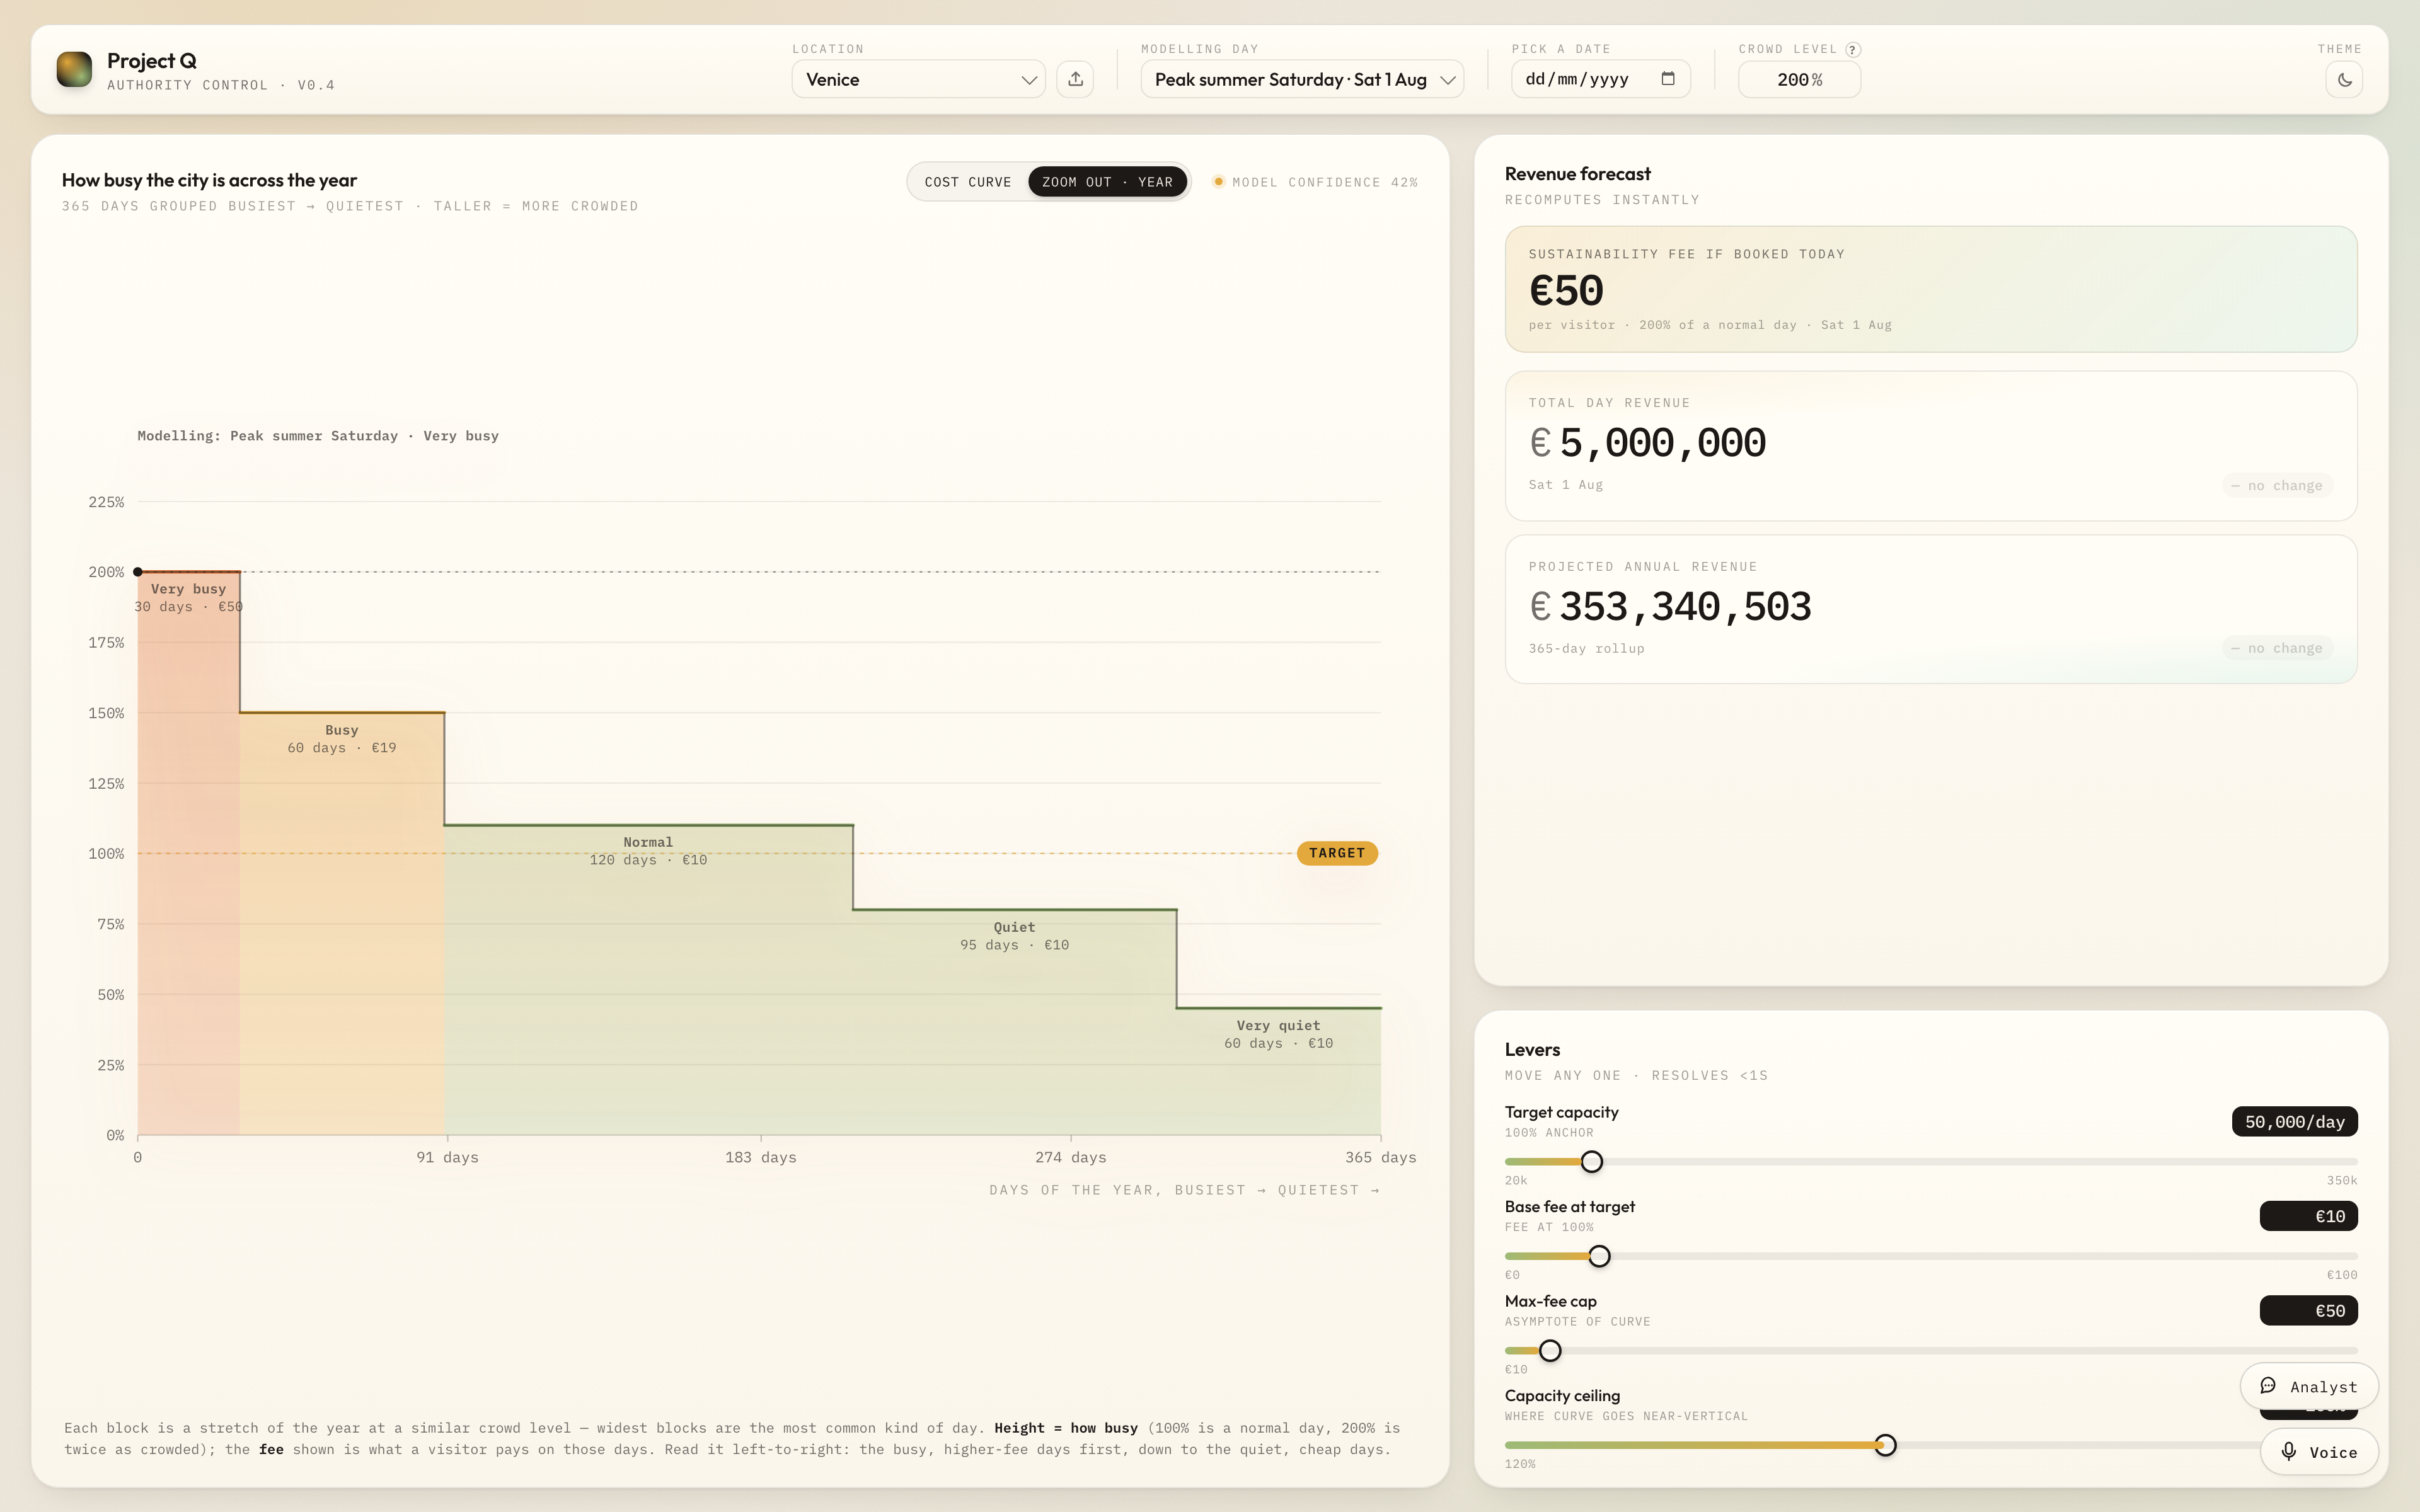
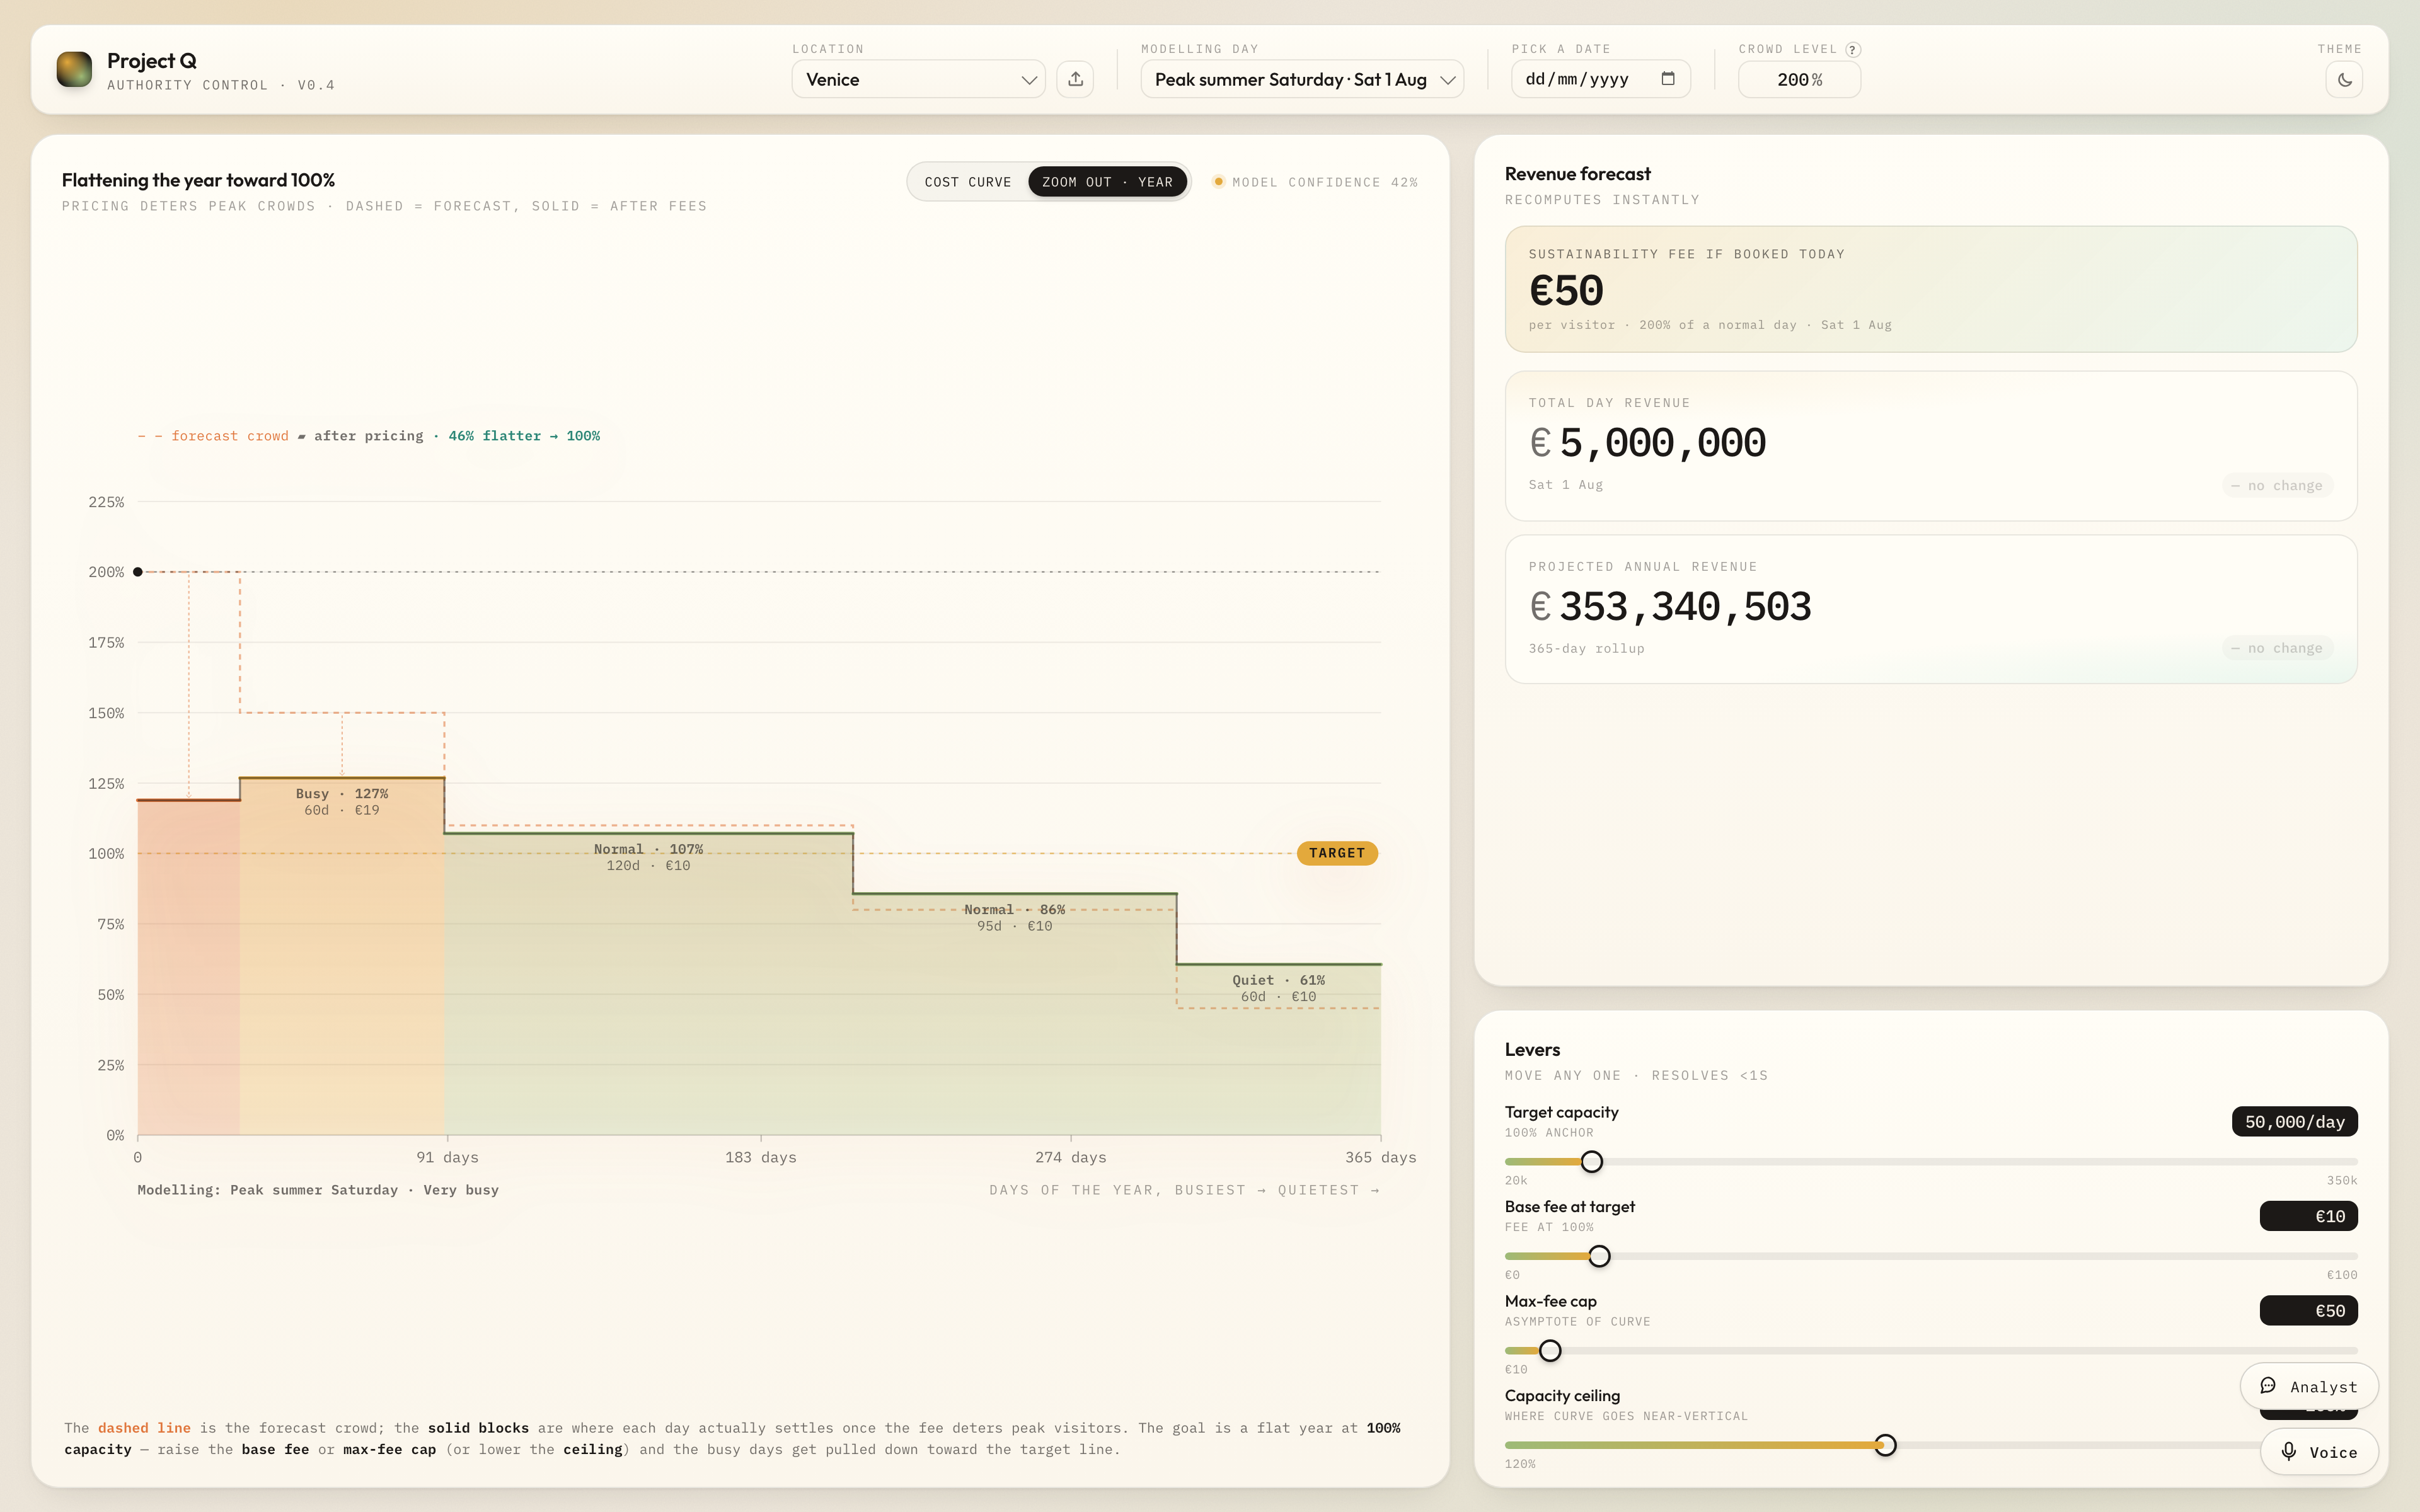
Zoom-out: demand-response curve — pricing levers flatten the year toward 100%
The annual view was a static load-duration curve the levers didn't touch. It now
models the WHOLE POINT of dynamic pricing: higher fees deter peak crowds and pull
the year toward 100% capacity.

- New deterministic managedDemandPct() in state.ts: managed = 100 + (raw-100) *
  e^(-fee/DEMAND_REF_EUR). The fee (set from the day's forecast demand) compresses
  that day's deviation from 100% — peak days carry the top fee so they compress
  most; quiet days near the base fee barely move. Exposed on window.ProjectQ.
- YearCurve now draws the RAW forecast as a faint dashed line and the MANAGED
  outcome as the solid bands, with drop-arrows and a '% flatter → 100%' badge;
  retitled 'Flattening the year toward 100%' with a demand-response explainer.
- Raising base_fee / max_fee_cap or lowering ceiling_pct all flatten the curve
  toward target. Verified monotonic: spread-from-100 18.5→8.2→4.9→4.2, peak day
  119%→100%.
- Band labels rebuilt to a width/room-aware single label so they never overlap
  even when flattened bands cluster near 100%; modelled-day caption moved to the
  bottom-left. Collision-swept across 8 lever combos at 1280 & 1920: 0 overlaps.

diff --git a/src/control/CurvePanel.tsx b/src/control/CurvePanel.tsx
@@ -1,5 +1,5 @@
 import { useStore } from "./useStore";
-import { feeAtPct, payAtPct, activeDayType, setView, type State } from "./state";
+import { feeAtPct, payAtPct, activeDayType, managedDemandPct, setView, type State } from "./state";
 import { fmtEur } from "./format";
 
 function leverV(state: State, id: string): number {
@@ -428,27 +428,33 @@ function YearCurve() {
   const yS = (v: number) => padT + (1 - v / yMax) * innerH;
   const baseY = yS(0);
 
-  // Load-duration style: sort the DPM seasonal bins by demand (desc) and lay
-  // them across the 365-day axis — a single glance shows how many days a year
-  // sit at each demand level, coloured by the fee that level would charge.
+  // Load-duration style: sort the DPM seasonal bins by RAW (forecast) demand and
+  // lay them across the 365-day axis. The pricing curve then deters peak crowds —
+  // managedDemandPct() is where each day actually settles after fees, pulling the
+  // whole year toward the 100% target. We draw both so the levers' effect shows.
   const bins = [...state.seasonal].sort((a, b) => b.demand_pct - a.demand_pct);
   type Band = {
     x0: number;
     x1: number;
-    y: number;
+    yRaw: number;
+    yMan: number;
     color: string;
-    demand: number;
+    rawDemand: number;
+    managed: number;
     days: number;
     fee: number;
   };
   const bands: Band[] = [];
-  const stepPts: string[] = [];
+  const rawPts: string[] = [];
+  const manPts: string[] = [];
   let cum = 0;
   for (const b of bins) {
     const x0 = xS(cum);
     const x1 = xS(cum + b.days);
-    const y = yS(Math.min(yMax, b.demand_pct));
     const fee = feeAtPct(b.demand_pct, state);
+    const managed = managedDemandPct(b.demand_pct, state);
+    const yRaw = yS(Math.min(yMax, b.demand_pct));
+    const yMan = yS(Math.min(yMax, managed));
     const ratio = cap > 0 ? fee / cap : 0;
     const color =
       fee < 0
@@ -458,14 +464,23 @@ function YearCurve() {
           : ratio > 0.3
             ? "var(--ochre)"
             : "var(--sage)";
-    bands.push({ x0, x1, y, color, demand: b.demand_pct, days: b.days, fee });
-    stepPts.push(`${x0.toFixed(1)},${y.toFixed(1)}`, `${x1.toFixed(1)},${y.toFixed(1)}`);
+    bands.push({ x0, x1, yRaw, yMan, color, rawDemand: b.demand_pct, managed, days: b.days, fee });
+    rawPts.push(`${x0.toFixed(1)},${yRaw.toFixed(1)}`, `${x1.toFixed(1)},${yRaw.toFixed(1)}`);
+    manPts.push(`${x0.toFixed(1)},${yMan.toFixed(1)}`, `${x1.toFixed(1)},${yMan.toFixed(1)}`);
     cum += b.days;
   }
-  const stepPath = stepPts.map((p, i) => (i ? "L" : "M") + p).join(" ");
+  const rawPath = rawPts.map((p, i) => (i ? "L" : "M") + p).join(" ");
+  const stepPath = manPts.map((p, i) => (i ? "L" : "M") + p).join(" ");
+  // Filled area under the MANAGED curve (the outcome the operator controls).
   const areaPath =
     stepPath +
     ` L ${xS(totalDays).toFixed(1)},${baseY.toFixed(1)} L ${xS(0).toFixed(1)},${baseY.toFixed(1)} Z`;
+  // How flat did we get? Mean absolute deviation from 100%, raw vs managed.
+  const totalD = bins.reduce((a, b) => a + b.days, 0) || 1;
+  const rawSpread = bins.reduce((a, b) => a + b.days * Math.abs(b.demand_pct - 100), 0) / totalD;
+  const manSpread =
+    bins.reduce((a, b) => a + b.days * Math.abs(managedDemandPct(b.demand_pct, state) - 100), 0) / totalD;
+  const flattenPct = rawSpread > 0.5 ? Math.round((1 - manSpread / rawSpread) * 100) : 0;
 
   // Y gridlines.
   const yStep = yMax > 250 ? 50 : 25;
@@ -487,7 +502,22 @@ function YearCurve() {
             <stop offset="0%" stopColor="#E0763C" stopOpacity="0.18" />
             <stop offset="100%" stopColor="#E3A93C" stopOpacity="0" />
           </linearGradient>
+          <marker id="year-arrow" viewBox="0 0 8 8" refX="4" refY="4" markerWidth="5" markerHeight="5" orient="auto">
+            <path d="M1 1 L4 4 L1 7" fill="none" stroke="#E0763C" strokeWidth="1.2" opacity="0.7" />
+          </marker>
         </defs>
+
+        {/* Raw-vs-managed legend + how-flat badge (top-left, fixed slot). */}
+        <g>
+          <text x={padL} y={padT - 14} textAnchor="start" className="year-band-label" style={{ fill: "var(--ink-mute)" }}>
+            <tspan style={{ fill: "var(--penalty)" }}>– – forecast crowd</tspan>
+            {"   "}
+            <tspan style={{ fontWeight: 600 }}>▰ after pricing</tspan>
+            {flattenPct > 1 && (
+              <tspan style={{ fill: "#2c8676", fontWeight: 600 }}>{`   ·  ${flattenPct}% flatter → 100%`}</tspan>
+            )}
+          </text>
+        </g>
 
         {/* Horizontal gridlines + %-axis ticks */}
         {yGrid.map((v) => (
@@ -545,51 +575,86 @@ function YearCurve() {
           </text>
         </g>
 
-        {/* Warm wash under the duration curve */}
+        {/* Warm wash under the MANAGED curve */}
         <path d={areaPath} fill="url(#year-fill)" />
 
-        {/* Coloured demand bands (fee intensity) */}
+        {/* Raw forecast crowd (before pricing) — faint dashed reference. The
+            pricing levers pull this DOWN toward the 100% target line. */}
+        <path
+          d={rawPath}
+          fill="none"
+          style={{ stroke: "var(--penalty)" }}
+          strokeWidth="1.5"
+          strokeDasharray="4 4"
+          opacity="0.55"
+        />
+
+        {/* Managed demand bands (where each day settles after fees) */}
         {bands.map((b, i) => (
           <g key={"band-" + i}>
             <rect
               x={b.x0}
-              y={b.y}
+              y={b.yMan}
               width={Math.max(0, b.x1 - b.x0)}
-              height={Math.max(0, baseY - b.y)}
+              height={Math.max(0, baseY - b.yMan)}
               style={{ fill: b.color }}
               opacity="0.22"
             />
             <line
               x1={b.x0}
-              y1={b.y}
+              y1={b.yMan}
               x2={b.x1}
-              y2={b.y}
+              y2={b.yMan}
               style={{ stroke: b.color }}
               strokeWidth="2.5"
               strokeLinecap="round"
             />
-            {/* Labels sit INSIDE the band (below its top line) so they never
-                collide with the axis caption or with neighbouring bands. */}
-            {b.x1 - b.x0 > 58 && baseY - b.y > 40 && (
-              <g>
-                <text
-                  x={(b.x0 + b.x1) / 2}
-                  y={b.y + 16}
-                  textAnchor="middle"
-                  className="year-band-label"
-                  style={{ fontWeight: 600 }}
-                >
-                  {crowdLabel(b.demand)}
-                </text>
-                <text x={(b.x0 + b.x1) / 2} y={b.y + 29} textAnchor="middle" className="year-band-label">
-                  {b.days} days · {fmtEur(b.fee)}
-                </text>
-              </g>
+            {/* Drop-arrow from the raw forecast down to the managed level. */}
+            {b.yMan - b.yRaw > 10 && (
+              <line
+                x1={(b.x0 + b.x1) / 2}
+                y1={b.yRaw + 2}
+                x2={(b.x0 + b.x1) / 2}
+                y2={b.yMan - 2}
+                style={{ stroke: "var(--penalty)" }}
+                strokeWidth="1"
+                strokeDasharray="2 2"
+                opacity="0.5"
+                markerEnd="url(#year-arrow)"
+              />
             )}
+            {/* One compact label per band, shown only when the band is wide
+                enough to hold it (so neighbouring labels never overlap) and tall
+                enough to sit inside without spilling into the band below. */}
+            {(() => {
+              const bandW = b.x1 - b.x0;
+              const nextTop = i + 1 < bands.length ? bands[i + 1].yMan : baseY;
+              const room = nextTop - b.yMan; // vertical space before the next step
+              const l1 = `${crowdLabel(b.managed)} · ${Math.round(b.managed)}%`;
+              const l2 = `${b.days}d · ${fmtEur(b.fee)}`;
+              const fits = bandW > Math.max(l1.length, l2.length) * 5.4 + 8;
+              if (!fits || room < 34) return null;
+              return (
+                <g>
+                  <text
+                    x={(b.x0 + b.x1) / 2}
+                    y={b.yMan + 15}
+                    textAnchor="middle"
+                    className="year-band-label"
+                    style={{ fontWeight: 600 }}
+                  >
+                    {l1}
+                  </text>
+                  <text x={(b.x0 + b.x1) / 2} y={b.yMan + 27} textAnchor="middle" className="year-band-label">
+                    {l2}
+                  </text>
+                </g>
+              );
+            })()}
           </g>
         ))}
 
-        {/* Step outline */}
+        {/* Managed step outline */}
         <path d={stepPath} fill="none" style={{ stroke: "var(--ink)" }} strokeWidth="1.5" opacity="0.5" />
 
         {/* Active modelled-day demand reference */}
@@ -603,14 +668,13 @@ function YearCurve() {
           strokeDasharray="2 4"
           opacity="0.5"
         />
-        {/* Small marker where the modelled-day line meets the y-axis — keeps the
-            line readable without an inline label that could land on a band. */}
+        {/* Small marker where the modelled-day line meets the y-axis. */}
         <circle cx={padL} cy={activeY} r="3.5" style={{ fill: "var(--ink)" }} />
-        {/* Modelled-day caption lives in a FIXED top-left slot, never on the data,
-            so it can't overlap the band labels at any demand level. */}
+        {/* Modelled-day caption in a fixed BOTTOM-left slot (above the x-axis),
+            separate from the top legend so the two never collide. */}
         <text
           x={padL}
-          y={padT - 14}
+          y={h - 8}
           textAnchor="start"
           className="year-band-label"
           style={{ fill: "var(--ink-mute)", fontWeight: 600 }}
@@ -689,18 +753,17 @@ export function CurvePanel() {
   const view = state.view;
   const activeDay =
     activeDayType(state);
-  const totalDays = state.seasonal.reduce((a, s) => a + s.days, 0);
   return (
     <section className="panel panel-pad curve-panel">
       <header className="panel-header">
         <div>
           <div className="panel-title">
-            {view === "cost" ? "Consumer cost curve" : "How busy the city is across the year"}
+            {view === "cost" ? "Consumer cost curve" : "Flattening the year toward 100%"}
           </div>
           <div className="panel-sub" style={{ marginTop: 4 }}>
             {view === "cost"
               ? `${activeDay.demand_pct}% of a normal day · ${activeDay.date}`
-              : `${totalDays} days grouped busiest → quietest · taller = more crowded`}
+              : `Pricing deters peak crowds · dashed = forecast, solid = after fees`}
           </div>
         </div>
         <div className="curve-legend">
@@ -745,11 +808,11 @@ export function CurvePanel() {
         <>
           <YearCurve />
           <p className="year-explainer">
-            Each block is a stretch of the year at a similar crowd level — widest
-            blocks are the most common kind of day. <strong>Height = how busy</strong> (100%
-            is a normal day, 200% is twice as crowded); the <strong>fee</strong> shown is what a
-            visitor pays on those days. Read it left-to-right: the busy, higher-fee
-            days first, down to the quiet, cheap days.
+            The <strong style={{ color: "var(--penalty)" }}>dashed line</strong> is the forecast
+            crowd; the <strong>solid blocks</strong> are where each day actually settles once the
+            fee deters peak visitors. The goal is a flat year at <strong>100% capacity</strong> —
+            raise the <strong>base fee</strong> or <strong>max-fee cap</strong> (or lower the
+            <strong> ceiling</strong>) and the busy days get pulled down toward the target line.
           </p>
         </>
       )}

diff --git a/src/control/state.ts b/src/control/state.ts
@@ -155,6 +155,33 @@ export function qcashAtPct(pct: number, snap: State = requireState()): number {
   return Math.max(0, f - snap.phase.real_pay_cap);
 }
 
+/**
+ * Euro-scale of visitor price-sensitivity used by the demand-response model.
+ * A modelling assumption (the DPM doesn't ship an elasticity figure yet): the
+ * higher the fee charged on a day, the more that day's crowd is pushed toward the
+ * 100% target. ~€30 means a €30 fee roughly halves a day's deviation from target.
+ */
+export const DEMAND_REF_EUR = 30;
+
+/**
+ * Managed demand — the crowd level a day actually settles at AFTER the pricing
+ * curve deters (or, on quiet days, fails to deter) visitors. This is the whole
+ * point of dynamic pricing: it flattens the year toward 100% capacity. The fee is
+ * set from the day's forecast (raw) demand; that fee then compresses the day's
+ * deviation from 100% — peak days carry the highest fee so they compress most,
+ * while quiet days sit near the base fee and barely move.
+ *
+ * managed = 100 + (raw − 100) · e^(−fee / DEMAND_REF_EUR)
+ *
+ * Raising base_fee / max_fee_cap, or lowering ceiling_pct, all raise the fees and
+ * therefore flatten the curve toward 100%. Pure + deterministic.
+ */
+export function managedDemandPct(raw_pct: number, snap: State = requireState()): number {
+  const fee = Math.max(0, feeAtPct(raw_pct, snap));
+  const compression = Math.exp(-fee / DEMAND_REF_EUR); // 1 at €0 fee → →0 as fee climbs
+  return 100 + (raw_pct - 100) * compression;
+}
+
 export function dayRevenue(demand_pct: number, snap: State = requireState()): number {
   const tc = leverVal(snap, "target_capacity");
   const visitors = tc * (demand_pct / 100);
@@ -460,6 +487,7 @@ export type ProjectQApi = {
   payAtPct: (pct: number) => number;
   qcashAtPct: (pct: number) => number;
   dayRevenue: (demand_pct: number) => number;
+  managedDemandPct: (raw_pct: number) => number;
   annualRevenue: () => number;
   /** Parse + apply a natural-language voice/text command; returns the spoken
    *  confirmation string (theme changes are UI-side and a no-op here). */
@@ -487,6 +515,7 @@ export function installGlobalApi(): void {
     payAtPct: (pct: number) => payAtPct(pct),
     qcashAtPct: (pct: number) => qcashAtPct(pct),
     dayRevenue: (demand_pct: number) => dayRevenue(demand_pct),
+    managedDemandPct: (raw_pct: number) => managedDemandPct(raw_pct),
     annualRevenue: () => annualRevenue(),
     voiceCommand: (transcript: string) =>
       executeVoiceCommand(transcript, { getState, setLever, setDemand, setDayType, setDate, setView }),

diff --git a/STATUS.md b/STATUS.md
@@ -48,3 +48,4 @@
 [2026-05-30T11:11:34Z] · DONE · prod 200; live: analyst v2 — lever comparison (+€80M ranks levers, honest on tiny asks), revenue explanation (seasonal bands + monthly day-sum), spoken answers + speaker toggle, originals intact, 0 console errors · 5c2bf1d
 [2026-05-30T23:15:54Z] · fixed zoom-out graph text overlap: band labels moved INSIDE each step, modelled-day caption to a fixed top-left slot (+ y-axis dot), removed redundant y-axis caption; collision sweep across demand 30-200% at 1280/1920 = 0 overlaps; build clean; pushing · e3f6b45
 [2026-05-30T23:20:09Z] · DONE · prod 200; live: zoom-out graph 0 text overlaps across demand 30-200% at 1280 & 1920 (band labels inside steps, modelled-day caption fixed top-left) · 1865f5b
+[2026-05-30T23:37:03Z] · zoom-out is now a demand-response curve: pricing levers flatten the year toward 100% capacity (managedDemandPct: managed=100+(raw-100)*e^(-fee/30)); raw forecast dashed + managed solid + "% flatter" badge; verified flatten monotonic (spread 18.5->4.2, peak 119->100) + 0 label overlaps across lever sweeps; build clean; pushing · f49a40a